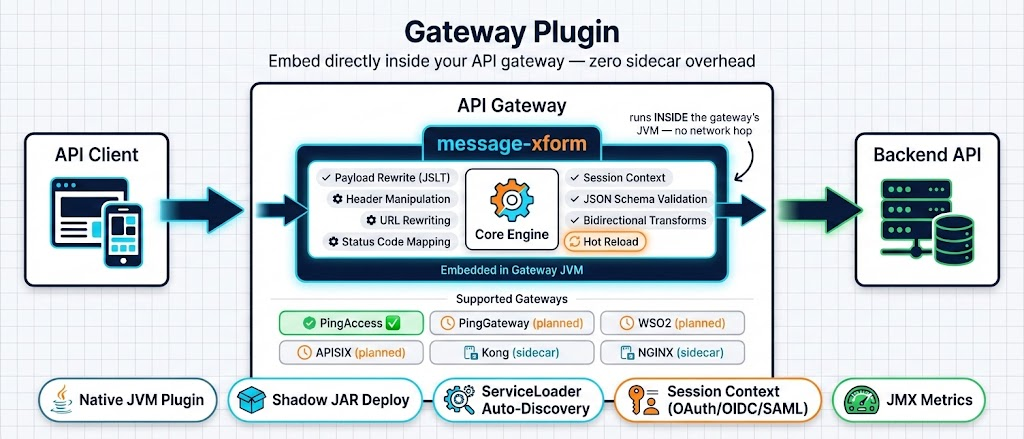
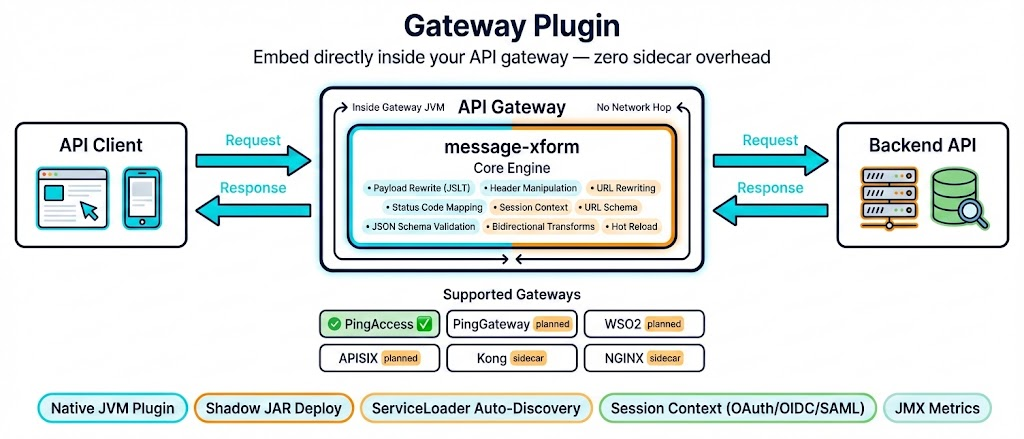
docs: refine README content and update image assets

diff --git a/README.md b/README.md
@@ -1,79 +1,15 @@
 # message-xform
 
-**Payload & Header Transformation Engine for API Gateways**
+**Declarative HTTP Message Transformation Engine**
 
-Transform HTTP message payloads and headers declaratively — no code changes per API.
-Deploy as a **standalone reverse proxy** or embed as a **plugin** in your existing API gateway.
-
----
-
-## What is message-xform?
-
-message-xform is a **gateway-agnostic transformation engine** that rewrites HTTP request and response messages based on declarative YAML configuration. It sits between your clients and backend APIs, transforming JSON payloads, manipulating headers, rewriting URLs, and mapping status codes — all without touching application code.
-
-**The problem it solves:** API gateways often need to transform messages between different formats — legacy systems speaking one schema, modern APIs expecting another, headers that need to be promoted into payloads or vice versa. Instead of writing custom code for each gateway product, message-xform provides a **single transformation engine** that works across all of them.
-
----
-
-### 🔀 Standalone Reverse Proxy
-
-<p align="center">
-  <img src="docs/images/standalone-proxy.png" alt="message-xform standalone reverse proxy — API client to proxy to backend API" width="720">
-</p>
-
-Run message-xform as an **independent HTTP proxy** with zero external dependencies. Ideal for:
-
-- **Development & testing** — validate transforms locally before deploying to a gateway
-- **Kubernetes sidecar** — run alongside your backend in the same pod
-- **Gateway-free environments** — when you don't need a full API gateway
-
-**Key features:**
-- Docker image (~100 MB) with multi-stage build
-- Java 21 virtual threads for high-concurrency request handling
-- TLS termination (inbound + outbound) with mTLS support
-- Environment variable overrides for all configuration
-- Health (`/health`) and readiness (`/ready`) endpoints
-- Hot reload via file watcher + admin API (`POST /admin/reload`)
-- Connection pooling with configurable timeouts
-
-```bash
-# Quick start with Docker
-docker run -v ./specs:/specs -v ./config.yaml:/config.yaml \
-  -p 8080:8080 message-xform-proxy
-
-# Or run directly with Java 21
-java -jar message-xform-proxy.jar
-```
-
-### 🔌 Gateway Plugin
-
-<p align="center">
-  <img src="docs/images/gateway-plugin.png" alt="message-xform gateway plugin — API client to gateway with embedded engine to backend API" width="720">
-</p>
-
-Embed message-xform **directly into your existing API gateway** as a native plugin, rule, or filter. The core engine runs inside the gateway's JVM — no network hop, no sidecar overhead.
-
-**Supported gateways:**
-
-| Gateway | Integration Model | Status |
-|---------|-------------------|--------|
-| **Standalone Proxy** | Embedded HTTP proxy (Javalin/Jetty) | ✅ Complete |
-| **PingAccess** | Java plugin via `AsyncRuleInterceptor` SPI | ✅ Complete |
-| **PingGateway** | Java/Groovy filter chain | 🔲 Planned |
-| **WSO2 API Manager** | Java extension API | 🔲 Planned |
-| **Apache APISIX** | Java Plugin Runner | 🔲 Planned |
-| **Kong** | Sidecar proxy (Lua ecosystem) | 🔲 Planned |
-| **NGINX** | Sidecar proxy (njs/C ecosystem) | 🔲 Planned |
-
-> Gateways with a **Java runtime** support direct JVM integration — the core engine runs natively inside the gateway.
-> Non-Java gateways use a **sidecar pattern** — the standalone proxy runs alongside the gateway, which proxies through it.
+Rewrite JSON payloads, manipulate headers, map status codes, rewrite URLs, and access session context — all from YAML configuration, no code changes per API. Transformations work **across layers**: promote a payload field into a header, inject session claims into the request body, derive a URL path from body content, or any combination. Deploy as a **standalone reverse proxy** or embed as a **plugin** in your existing API gateway.
 
 ---
 
 ## What Can It Transform?
 
 <p align="center">
-  <img src="docs/images/transform-pipeline.png" alt="message-xform transformation pipeline — body, headers, status, URL rewriting" width="720">
+  <img src="docs/images/transform-pipeline.png" alt="message-xform transformation pipeline — body, headers, status, URL rewriting, session context" width="720">
 </p>
 
 message-xform operates on **every layer** of an HTTP message:
@@ -175,6 +111,63 @@ transform:
 - **API versioning** — transform v1 payloads to v2 format (and back) using bidirectional specs, enabling gradual client migration
 - **Polymorphic endpoint rectification** — decompose dispatch-style endpoints (`POST /api?action=delete`) into RESTful resources (`DELETE /api/users/{id}`) via URL rewriting and method mapping
 - **Header-based routing enrichment** — promote payload fields to headers (e.g., extract a tenant ID from the body into `X-Tenant-ID`) for downstream routing decisions
+
+---
+
+## Deployment Modes
+
+### 🔀 Standalone Reverse Proxy
+
+<p align="center">
+  <img src="docs/images/standalone-proxy.png" alt="message-xform standalone reverse proxy — API client to proxy to backend API" width="720">
+</p>
+
+Run message-xform as an **independent HTTP proxy** with zero external dependencies. Ideal for:
+
+- **Development & testing** — validate transforms locally before deploying to a gateway
+- **Kubernetes sidecar** — run alongside your backend in the same pod
+- **Gateway-free environments** — when you don't need a full API gateway
+
+**Key features:**
+- Docker image (~100 MB) with multi-stage build
+- Java 21 virtual threads for high-concurrency request handling
+- TLS termination (inbound + outbound) with mTLS support
+- Environment variable overrides for all configuration
+- Health (`/health`) and readiness (`/ready`) endpoints
+- Hot reload via file watcher + admin API (`POST /admin/reload`)
+- Connection pooling with configurable timeouts
+
+```bash
+# Quick start with Docker
+docker run -v ./specs:/specs -v ./config.yaml:/config.yaml \
+  -p 8080:8080 message-xform-proxy
+
+# Or run directly with Java 21
+java -jar message-xform-proxy.jar
+```
+
+### 🔌 Gateway Plugin
+
+<p align="center">
+  <img src="docs/images/gateway-plugin.png" alt="message-xform gateway plugin — API client to gateway with embedded engine to backend API" width="720">
+</p>
+
+Embed message-xform **directly into your existing API gateway** as a native plugin, rule, or filter. The core engine runs inside the gateway's JVM — no network hop, no sidecar overhead.
+
+**Supported gateways:**
+
+| Gateway | Integration Model | Status |
+|---------|-------------------|--------|
+| **Standalone Proxy** | Embedded HTTP proxy (Javalin/Jetty) | ✅ Complete |
+| **PingAccess** | Java plugin via `AsyncRuleInterceptor` SPI | ✅ Complete |
+| **PingGateway** | Java/Groovy filter chain | 🔲 Planned |
+| **WSO2 API Manager** | Java extension API | 🔲 Planned |
+| **Apache APISIX** | Java Plugin Runner | 🔲 Planned |
+| **Kong** | Sidecar proxy (Lua ecosystem) | 🔲 Planned |
+| **NGINX** | Sidecar proxy (njs/C ecosystem) | 🔲 Planned |
+
+> Gateways with a **Java runtime** support direct JVM integration — the core engine runs natively inside the gateway.
+> Non-Java gateways use a **sidecar pattern** — the standalone proxy runs alongside the gateway, which proxies through it.
 
 ---
 

diff --git a/docs/images/image-prompts.md b/docs/images/image-prompts.md
@@ -18,8 +18,10 @@ Technical infographic for an open-source project called "message-xform" — the 
 A horizontal flow from left to right:
 
 1. "API Client" box on the left (with a browser/app icon)
-2. Arrow flowing into a large, prominently glowing "message-xform Proxy" box in the center. Inside this box, show the Core Engine as a contained component with these capability labels arranged neatly: "Payload Rewrite (JSLT)" · "Header Manipulation" · "URL Rewriting" · "Status Code Mapping" · "Session Context" · "JSON Schema Validation" · "Bidirectional Transforms" · "Hot Reload"
-3. Arrow flowing out to a "Backend API" box on the right (with a server/database icon)
+2. BIDIRECTIONAL arrows (double-headed or opposing arrow pairs) connecting to a large, prominently glowing "message-xform Proxy" box in the center. Inside this box, show the Core Engine as a contained component with these capability labels arranged neatly: "Payload Rewrite (JSLT)" · "Header Manipulation" · "URL Rewriting" · "Status Code Mapping" · "Session Context" · "JSON Schema Validation" · "Bidirectional Transforms" · "Hot Reload"
+3. BIDIRECTIONAL arrows connecting to a "Backend API" box on the right (with a server/database icon)
+
+The arrows MUST show traffic flowing in BOTH directions — requests flowing right AND responses flowing left. This is a bidirectional proxy.
 
 Below the proxy box, show two rows of deployment context:
 - Row 1: Docker whale icon + Kubernetes helm icon + "Java 21" badge
@@ -49,8 +51,10 @@ Technical infographic for an open-source project called "message-xform" — the 
 A horizontal flow from left to right:
 
 1. "API Client" box on the left (with a browser/app icon)
-2. Arrow flowing into a large "API Gateway" box in the center. Inside this gateway box, show a smaller embedded "message-xform" component containing the Core Engine. The Core Engine shows capability labels: "Payload Rewrite (JSLT)" · "Header Manipulation" · "URL Rewriting" · "Status Code Mapping" · "Session Context" · "JSON Schema Validation" · "Bidirectional Transforms" · "Hot Reload". The gateway box surrounds the engine, showing that message-xform runs INSIDE the gateway's JVM — no network hop.
-3. Arrow flowing out to a "Backend API" box on the right (with a server/database icon)
+2. BIDIRECTIONAL arrows (double-headed or opposing arrow pairs) connecting to a large "API Gateway" box in the center. Inside this gateway box, show a smaller embedded "message-xform" component containing the Core Engine. The Core Engine shows capability labels: "Payload Rewrite (JSLT)" · "Header Manipulation" · "URL Rewriting" · "Status Code Mapping" · "Session Context" · "JSON Schema Validation" · "Bidirectional Transforms" · "Hot Reload". The gateway box surrounds the engine, showing that message-xform runs INSIDE the gateway's JVM — no network hop.
+3. BIDIRECTIONAL arrows connecting to a "Backend API" box on the right (with a server/database icon)
+
+The arrows MUST show traffic flowing in BOTH directions — requests flowing right AND responses flowing left through the gateway.
 
 Below the gateway box, show supported gateways in a grid with status badges:
 - "PingAccess ✅" (complete, highlighted in green)
